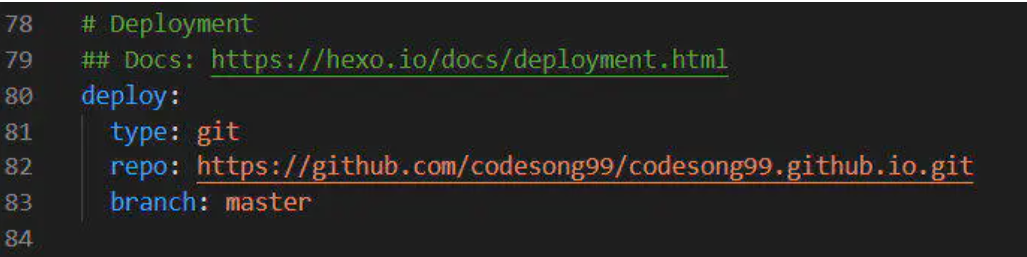
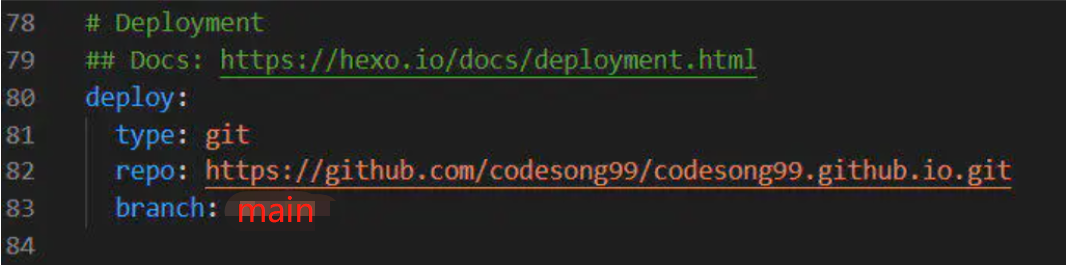
Site updated: 2022-02-01 17:18:21

diff --git a/2022/02/01/1-blogCreat/index.html b/2022/02/01/1-blogCreat/index.html
@@ -18,7 +18,7 @@
 <meta property="og:image" content="http://example.com/2022/02/01/1-blogCreat/images/3-theHub.png">
 <meta property="og:image" content="http://example.com/2022/02/01/1-blogCreat/images/4-theConfig.png">
 <meta property="article:published_time" content="2022-02-01T08:29:01.113Z">
-<meta property="article:modified_time" content="2022-02-01T08:59:17.025Z">
+<meta property="article:modified_time" content="2022-02-01T09:16:30.346Z">
 <meta property="article:author" content="John Doe">
 <meta name="twitter:card" content="summary">
 <meta name="twitter:image" content="http://example.com/2022/02/01/1-blogCreat/images/1-NodejsDownload.png">
@@ -132,7 +132,7 @@
 <p>至此我们就完成了个人博客的创建，以及如何对博客进行修改等操作。不过我们的博客现在只能通过本地端口（localhost）访问调试，怎么才能让别人看到我们的博客呢？<br>接下来就来介绍如何将博客部署到github上进行访问。</p>
 <h3 id="3、将博客部署到github上"><a href="#3、将博客部署到github上" class="headerlink" title="3、将博客部署到github上"></a>3、将博客部署到github上</h3><h4 id="（1）在github上新建仓库"><a href="#（1）在github上新建仓库" class="headerlink" title="（1）在github上新建仓库"></a>（1）在github上新建仓库</h4><p><strong>仓库名称必须为 xxx.github.io(其中xxx为自己的github用户名)，如codesong99.github.io,并得到仓库地址：</strong><br>github仓库地址：<br><img src="./images/3-theHub.png" alt="page"></p>
 <h4 id="2）在blog目录下安装一个git的部署插件"><a href="#2）在blog目录下安装一个git的部署插件" class="headerlink" title="2）在blog目录下安装一个git的部署插件"></a>2）在blog目录下安装一个git的部署插件</h4><figure class="highlight plaintext"><table><tr><td class="gutter"><pre><span class="line">1</span><br></pre></td><td class="code"><pre><span class="line">cnpm install --save hexo-deployer-git</span><br></pre></td></tr></table></figure>
-<h4 id="3）修改blog目录下的配置文件"><a href="#3）修改blog目录下的配置文件" class="headerlink" title="3）修改blog目录下的配置文件"></a>3）修改blog目录下的配置文件</h4><p><strong>打开blog目录下的_config.yml文件，在最后几行的部署（deploy）信息位置添加以下配置：</strong><br>deploy配置：<br><img src="./images/4-theConfig.png" alt="page"><br>部署类型为git，仓库地址为刚才获得的github仓库地址，branch设置为master，修改完成后保存并关闭。<br>注意冒号后有一个空格。</p>
+<h4 id="3）修改blog目录下的配置文件"><a href="#3）修改blog目录下的配置文件" class="headerlink" title="3）修改blog目录下的配置文件"></a>3）修改blog目录下的配置文件</h4><p><strong>打开blog目录下的_config.yml文件，在最后几行的部署（deploy）信息位置添加以下配置：</strong><br>deploy配置：<br><img src="./images/4-theConfig.png" alt="page"><br>部署类型为git，仓库地址为刚才获得的github仓库地址，branch设置为<strong>main</strong>，修改完成后保存并关闭。<br>注意冒号后有一个空格。</p>
 <h4 id="（4）将博客部署远端"><a href="#（4）将博客部署远端" class="headerlink" title="（4）将博客部署远端"></a>（4）将博客部署远端</h4><p><strong>回到CMD窗口，在blog目录下输入一下命令，将博客推到远端：</strong></p>
 <figure class="highlight plaintext"><table><tr><td class="gutter"><pre><span class="line">1</span><br></pre></td><td class="code"><pre><span class="line">hexo d</span><br></pre></td></tr></table></figure>
 <p>这个”d”就是deploy的意思。此过程需要输入github账号及密码。<br>至此我们就完成了搭建hexo博客并部署到github上的所有工作，在浏览器中输入xxx.github.io即可访问自己的个人博客。</p>

diff --git a/index.html b/index.html
@@ -4,7 +4,7 @@
   <meta charset="utf-8">
   
   
-  <title>DemonJoe_Blog</title>
+  <title>Hexo</title>
   <meta name="viewport" content="width=device-width, initial-scale=1, shrink-to-fit=no">
   <meta property="og:type" content="website">
 <meta property="og:title" content="Hexo">
@@ -42,7 +42,7 @@
   <div id="header-outer" class="outer">
     <div id="header-title" class="inner">
       <h1 id="logo-wrap">
-        <a href="/" id="logo">DemonJoe</a>
+        <a href="/" id="logo">Hexo</a>
       </h1>
       
     </div>
@@ -125,7 +125,7 @@
 <p>至此我们就完成了个人博客的创建，以及如何对博客进行修改等操作。不过我们的博客现在只能通过本地端口（localhost）访问调试，怎么才能让别人看到我们的博客呢？<br>接下来就来介绍如何将博客部署到github上进行访问。</p>
 <h3 id="3、将博客部署到github上"><a href="#3、将博客部署到github上" class="headerlink" title="3、将博客部署到github上"></a>3、将博客部署到github上</h3><h4 id="（1）在github上新建仓库"><a href="#（1）在github上新建仓库" class="headerlink" title="（1）在github上新建仓库"></a>（1）在github上新建仓库</h4><p><strong>仓库名称必须为 xxx.github.io(其中xxx为自己的github用户名)，如codesong99.github.io,并得到仓库地址：</strong><br>github仓库地址：<br><img src="./images/3-theHub.png" alt="page"></p>
 <h4 id="2）在blog目录下安装一个git的部署插件"><a href="#2）在blog目录下安装一个git的部署插件" class="headerlink" title="2）在blog目录下安装一个git的部署插件"></a>2）在blog目录下安装一个git的部署插件</h4><figure class="highlight plaintext"><table><tr><td class="gutter"><pre><span class="line">1</span><br></pre></td><td class="code"><pre><span class="line">cnpm install --save hexo-deployer-git</span><br></pre></td></tr></table></figure>
-<h4 id="3）修改blog目录下的配置文件"><a href="#3）修改blog目录下的配置文件" class="headerlink" title="3）修改blog目录下的配置文件"></a>3）修改blog目录下的配置文件</h4><p><strong>打开blog目录下的_config.yml文件，在最后几行的部署（deploy）信息位置添加以下配置：</strong><br>deploy配置：<br><img src="./images/4-theConfig.png" alt="page"><br>部署类型为git，仓库地址为刚才获得的github仓库地址，branch设置为master，修改完成后保存并关闭。<br>注意冒号后有一个空格。</p>
+<h4 id="3）修改blog目录下的配置文件"><a href="#3）修改blog目录下的配置文件" class="headerlink" title="3）修改blog目录下的配置文件"></a>3）修改blog目录下的配置文件</h4><p><strong>打开blog目录下的_config.yml文件，在最后几行的部署（deploy）信息位置添加以下配置：</strong><br>deploy配置：<br><img src="./images/4-theConfig.png" alt="page"><br>部署类型为git，仓库地址为刚才获得的github仓库地址，branch设置为<strong>main</strong>，修改完成后保存并关闭。<br>注意冒号后有一个空格。</p>
 <h4 id="（4）将博客部署远端"><a href="#（4）将博客部署远端" class="headerlink" title="（4）将博客部署远端"></a>（4）将博客部署远端</h4><p><strong>回到CMD窗口，在blog目录下输入一下命令，将博客推到远端：</strong></p>
 <figure class="highlight plaintext"><table><tr><td class="gutter"><pre><span class="line">1</span><br></pre></td><td class="code"><pre><span class="line">hexo d</span><br></pre></td></tr></table></figure>
 <p>这个”d”就是deploy的意思。此过程需要输入github账号及密码。<br>至此我们就完成了搭建hexo博客并部署到github上的所有工作，在浏览器中输入xxx.github.io即可访问自己的个人博客。</p>
